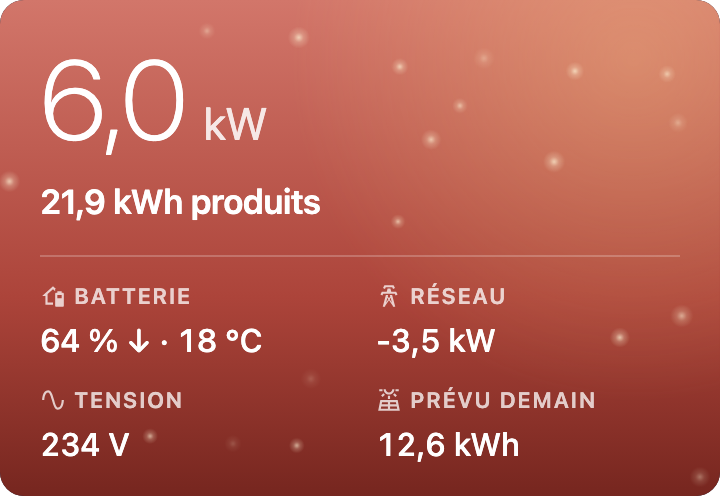
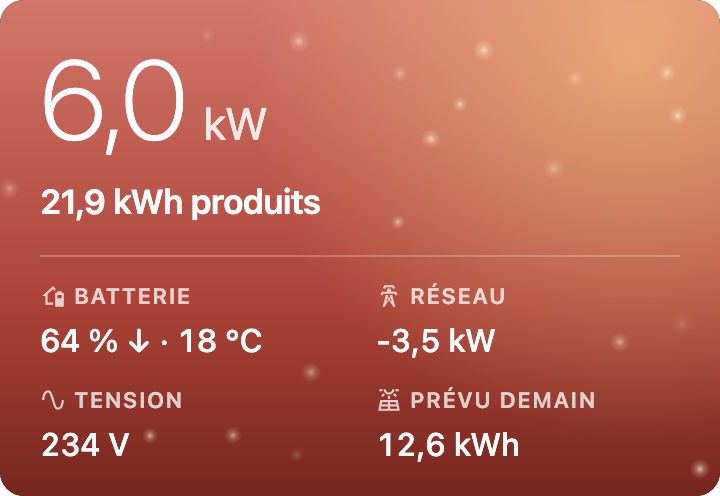
README: the night as its animation only (no second, still night picture)

diff --git a/README.md b/README.md
@@ -8,9 +8,7 @@ Une carte de tableau de bord Home Assistant qui affiche la production solaire, l
 |---|---|
 | ![Jour Bleu](docs/images/bleu.png) | ![Jour Blanc](docs/images/blanc.png) |
 | **Jour Rouge** | **Nuit** |
-| ![Jour Rouge](docs/images/rouge.png) | ![Nuit](docs/images/nuit.png) |
-
-<img src="docs/images/nuit-anim.png" width="360" alt="La nuit, animée : les étoiles scintillent sur tout le ciel, une étoile filante passe">
+| ![Jour Rouge](docs/images/rouge.png) | ![Nuit, animée : les étoiles scintillent, une étoile filante passe](docs/images/nuit-anim.png) |
 
 ## Ce que montre la carte
 

diff --git a/CLAUDE.md b/CLAUDE.md
@@ -15,7 +15,7 @@ npm run dev          # rebuild on change
 npm run type-check   # tsc --noEmit, strict
 npm test             # Vitest, once (build first: test/build.test.ts checks the bundle)
 npm run test:browser # headless Chrome: animations pause off-screen, none under reduced motion, no overflow, sky off text (also in CI)
-npm run screenshots  # the README's pictures in docs/images/ (4 stills + nuit-anim.png, an animated PNG)
+npm run screenshots  # the README's pictures in docs/images/ (3 day stills + nuit-anim.png, the night as an animated PNG)
 npm run test:coverage
 ```
 
